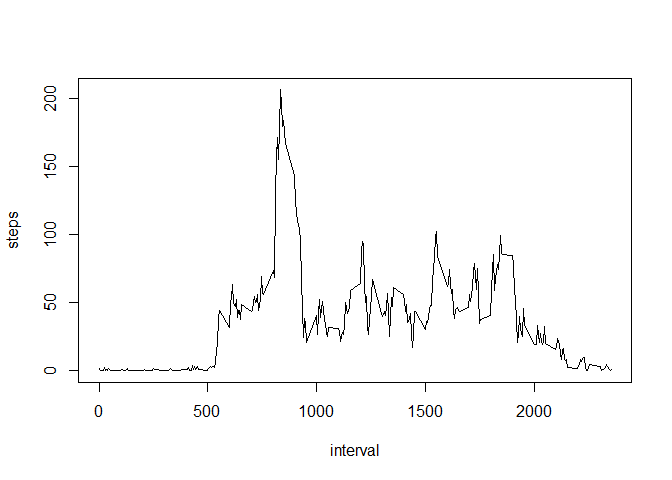
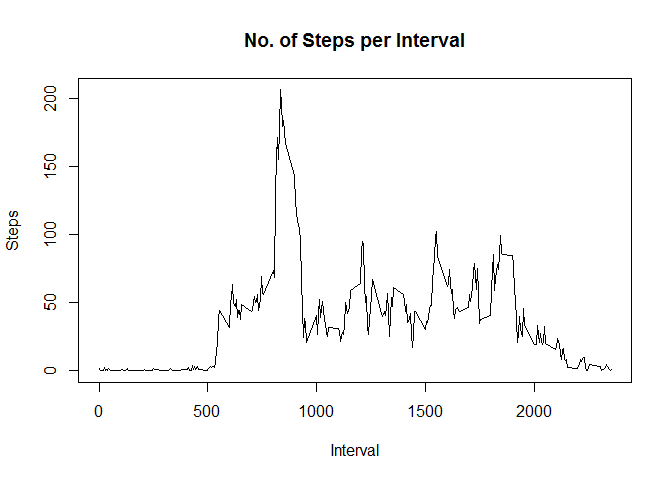
final project upload

Changed region(s): [[0.3438, 0.0625, 0.7188, 0.125], [0.0, 0.4375, 0.0312, 0.5312]]

diff --git a/PA1_template.html b/PA1_template.html
@@ -122,7 +122,7 @@ $(document).ready(function () {
 <div id="setting-all-r-chunks-to-echo-true" class="section level2">
 <h2>Setting all R chunks to echo = TRUE</h2>
 <pre class="r"><code>library(knitr)
-opts_chunk$set(echo = TRUE)</code></pre>
+opts_chunk$set(echo = TRUE, keep.blank.lines = TRUE)</code></pre>
 </div>
 <div id="loading-and-preprocessing-the-data" class="section level2">
 <h2>Loading and preprocessing the data</h2>
@@ -153,8 +153,8 @@ opts_chunk$set(echo = TRUE)</code></pre>
 <li>Make a time series plot (i.e. type = “l”) of the 5-minute interval (x-axis) and the average number of steps taken, averaged across all days (y-axis)</li>
 </ol>
 <pre class="r"><code>avg_no_of_steps &lt;- aggregate(steps~interval, data = activity, FUN = mean, na.rm = TRUE)
-plot(steps~interval, data = avg_no_of_steps, type = &quot;l&quot;)</code></pre>
[1 lines of base64/hex data omitted]
+plot(steps~interval, data = avg_no_of_steps, type = &quot;l&quot;, xlab = &quot;Interval&quot;, ylab = &quot;Steps&quot;, main = &quot;No. of Steps per Interval&quot;)</code></pre>
[1 lines of base64/hex data omitted]
 <ol start="2" style="list-style-type: decimal">
 <li>Which 5-minute interval, on average across all the days in the dataset, contains the maximum number of steps?</li>
 </ol>

diff --git a/PA1_template.md b/PA1_template.md
@@ -4,7 +4,7 @@
 
 ```r
 library(knitr)
-opts_chunk$set(echo = TRUE)
+opts_chunk$set(echo = TRUE, keep.blank.lines = TRUE)
 ```
 
 
@@ -61,7 +61,7 @@ median(steps_per_day$steps)
 
 ```r
 avg_no_of_steps <- aggregate(steps~interval, data = activity, FUN = mean, na.rm = TRUE)
-plot(steps~interval, data = avg_no_of_steps, type = "l")
+plot(steps~interval, data = avg_no_of_steps, type = "l", xlab = "Interval", ylab = "Steps", main = "No. of Steps per Interval")
 ```
 
 ![](PA1_template_files/figure-html/avgNoOfStepsPerInterval-1.png)<!-- -->
